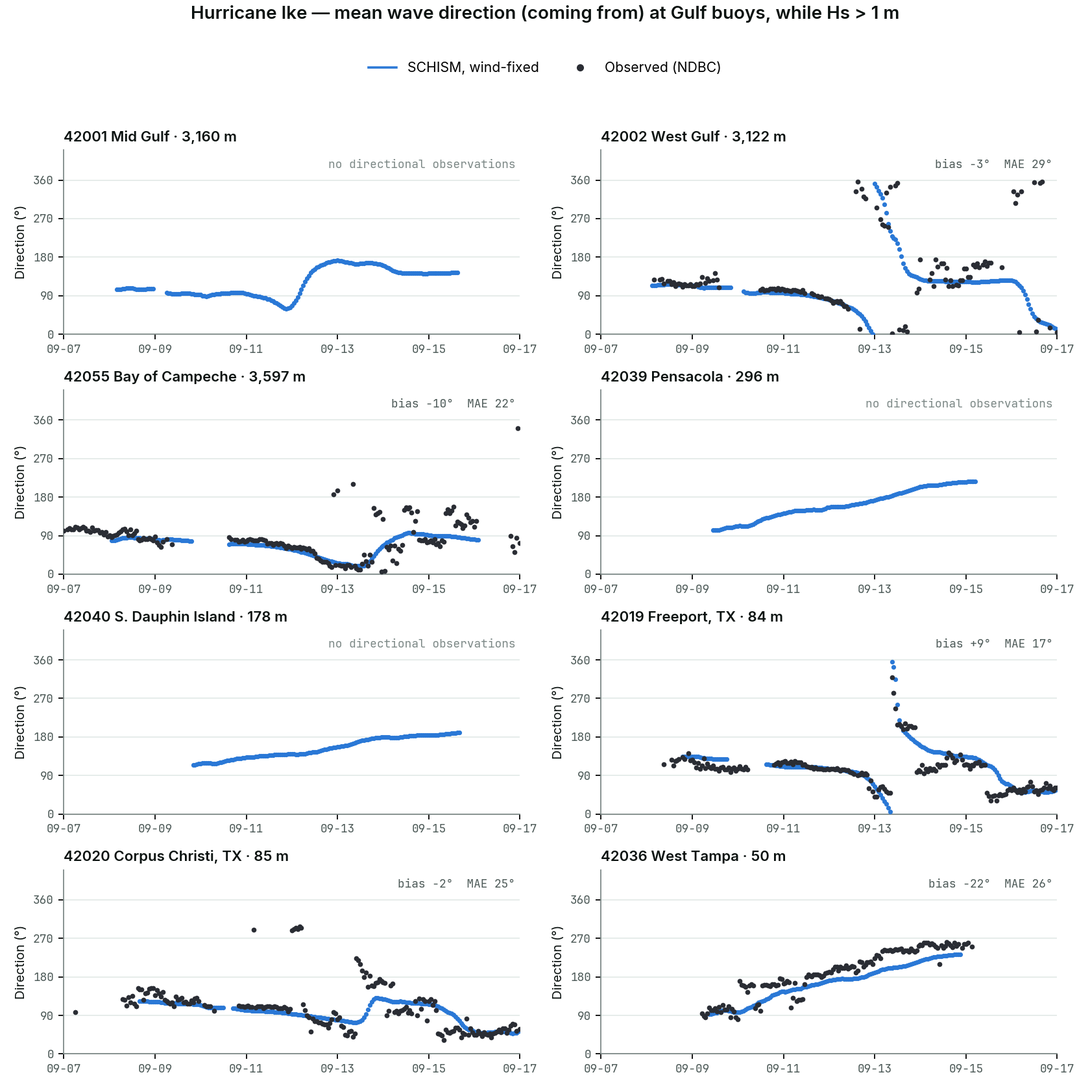
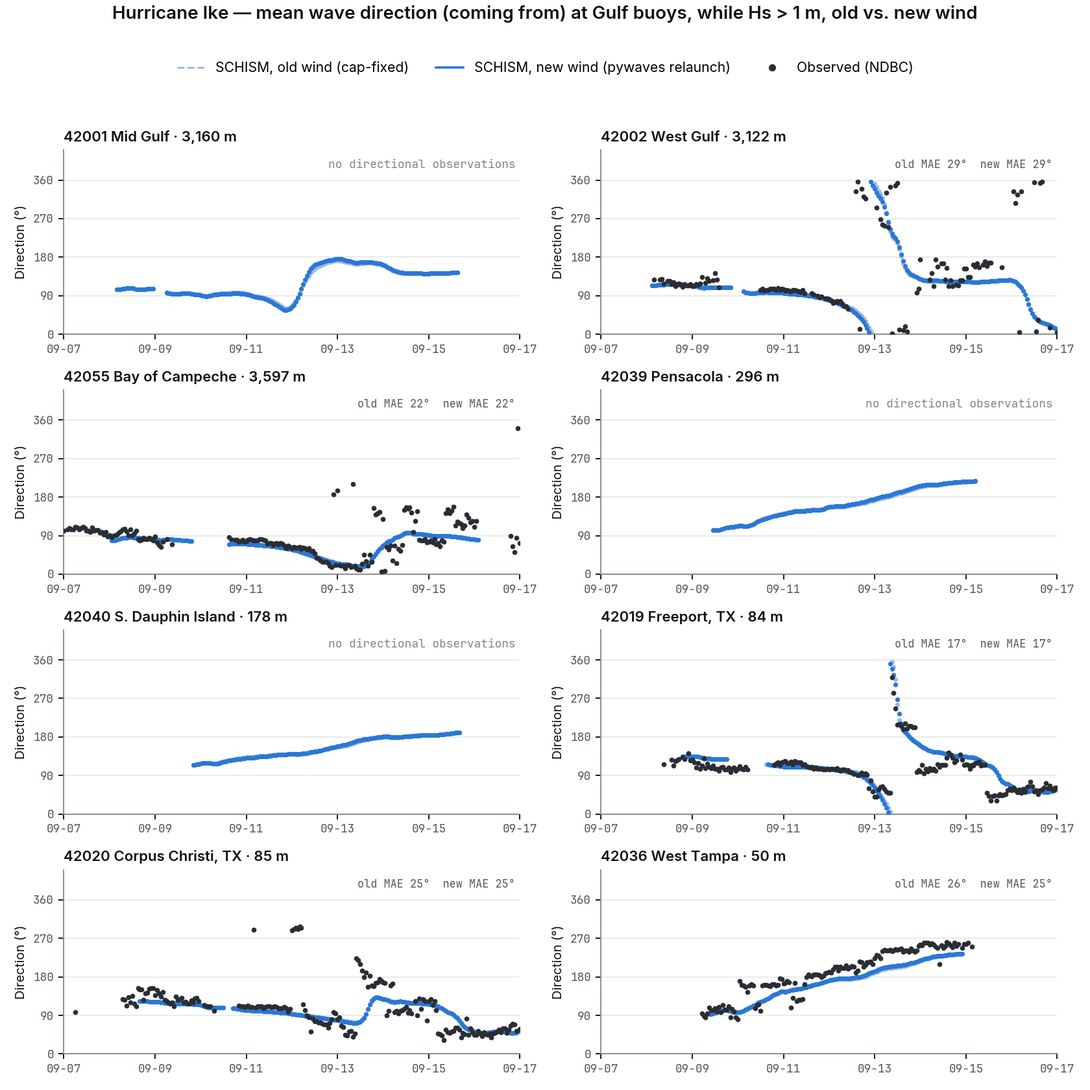
Ike: rerun Gulf-parent domain with new pywaves wind too
The local relaunch's wind never reached the Gulf-buoy figures, which
still showed the old cap-fixed wind (52 m/s at 42001 vs 30.1 m/s
observed) -- flagged by a live-site question about why 42001 still
looked unfixed. Reran the 10-day Gulf-of-Mexico parent domain with the
same pywaves wind and rescored all 8 buoys.

42001 wind: peak 52->35 m/s (obs 30.1), RMSE 4.1->2.2. Every other
buoy's wind is essentially unchanged, since the refit only bites near
the storm core. Deep-water wave height improved only partly (42001 Hs
40% high -> 30% high; 42002 unchanged) -- fixing the wind at a single
buoy doesn't cleanly fix fetch-integrated wave growth, echoing the
local-domain surge finding from the previous commit. Wind direction,
Tp and mean wave direction are essentially unchanged everywhere.
Current at 42002 is unaffected (identical to 3 decimal places).

Rewrote the Deep-water Gulf section (intro, Fig 2-5 captions/tables,
analysis paragraphs) and the closing summary to match, and removed the
now-ambiguous "wind-fixed" labeling in favor of "old cap-fixed" vs
"new pywaves" throughout.

Claude-Session: https://claude.ai/code/session_019HhJ14FLY5shXvj8i5ta22

diff --git a/site/content/portfolio/independent-projects/hurricane-ike-schism-wwm-nested-validation.md b/site/content/portfolio/independent-projects/hurricane-ike-schism-wwm-nested-validation.md
@@ -3,8 +3,8 @@ title: "Coupled Wave-Surge Model Validation: Hurricane Ike (SCHISM-WWM)"
 date: 2026-01-01
 description: "A nested Gulf-of-Mexico-to-Galveston SCHISM-WWM hindcast of Hurricane Ike (2008): wave, wind, current, and datum-corrected storm-surge validation at Gulf buoys and Galveston gauges, a wind-forcing bug whose fix repaired the storm's structure but not its intensity, and an offshore-boundary fix that recovered lost wave energy."
 challenge: "Ike was a much larger, more intense storm than Harvey, and reusing wind-forcing and boundary settings tuned for Harvey without re-checking them against a storm of a very different character risked quietly wrong results rather than an obvious crash."
-approach: "Ran the same nested-domain strategy used for Harvey — a Gulf-of-Mexico regional SCHISM-WWM hindcast feeding a high-resolution local Galveston domain — against Hurricane Ike, and checked every stage against eight Gulf NDBC buoys, NDBC buoy 42035 and the local CO-OPS water-level network. Later relaunched the local domain with an improved wind blend and rescored it against the same observations. ADCIRC-SWAN is not included here: that companion run has not yet completed successfully for Ike."
-result: "Found a real wind-forcing bug (a safety cap tuned for Harvey applied to a very different storm), then, separately, integrated a better GAHM+ERA5 wind blend shared with this project's SWAN/WW3 workflows and relaunched the local Galveston domain with it. The new local wind cuts peak-wind RMSE at buoy 42035 by about 40% (53 → 34 m/s vs. 27.9 m/s observed). Local wave height still correlates well with observations (r=0.89), but storm surge got *worse*, not better: with the old, overly strong wind the model reached 88% of the recorded peak at Galveston Pier 21; with the corrected, weaker wind it reaches 66%, and every one of five gauges moved further from its observed peak. The old wind's overestimate had been silently compensating for a separate surge shortfall — fixing one bug exposed another. Across eight Gulf buoys (a separate, not-yet-relaunched parent run) the wave field is well captured in timing and shape (correlation 0.93–0.99 at seven), wind and peak-period correlation are mostly 0.85–0.98, and the 2D barotropic model cannot reproduce the observed deep-water current at 42002. Tidal current at the Bay Entrance is still only about half of NOAA's predicted speed — the same shortfall found for Harvey, on a different mesh."
+approach: "Ran the same nested-domain strategy used for Harvey — a Gulf-of-Mexico regional SCHISM-WWM hindcast feeding a high-resolution local Galveston domain — against Hurricane Ike, and checked every stage against eight Gulf NDBC buoys, NDBC buoy 42035 and the local CO-OPS water-level network. Later relaunched both the local domain and, separately, the Gulf-of-Mexico parent domain with an improved wind blend and rescored each against the same observations. ADCIRC-SWAN is not included here: that companion run has not yet completed successfully for Ike."
+result: "Found a real wind-forcing bug (a safety cap tuned for Harvey applied to a very different storm), then, separately, integrated a better GAHM+ERA5 wind blend shared with this project's SWAN/WW3 workflows and relaunched first the local Galveston domain, then the Gulf-of-Mexico parent domain, with it. The new wind cuts peak-wind RMSE by about 40% at buoy 42035 (53 → 34 m/s vs. 27.9 m/s observed) and by about the same at the nearest Gulf buoy, 42001 (peak 52 → 35 m/s vs. 30 m/s observed); every other Gulf buoy is essentially unchanged, since the refit only bites near the storm core. Local wave height still correlates well with observations (r=0.89), but storm surge got *worse*, not better: with the old, overly strong wind the model reached 88% of the recorded peak at Galveston Pier 21; with the corrected, weaker wind it reaches 66%, and every one of five gauges moved further from its observed peak. The old wind's overestimate had been silently compensating for a separate surge shortfall — fixing one bug exposed another. In deep water the better wind helped only partly: Hs at 42001 fell from 40% too high to 30% too high despite the local wind's peak dropping by a third, and 42002's waves, whose local wind barely changed, stayed just as high. The 2D barotropic model cannot reproduce the observed deep-water current at 42002 either way. Tidal current at the Galveston Bay Entrance is still only about half of NOAA's predicted speed — the same shortfall found for Harvey, on a different mesh."
 tags: ["SCHISM", "WWM", "storm surge", "wave modeling", "current validation", "Hurricane Ike", "deep-water wave validation", "wind validation", "nested modeling", "GAHM wind forcing"]
 link: ""
 image: "/img/portfolio/hurricane-ike-schism-wwm/ike_mesh_nested.png"
@@ -22,38 +22,38 @@ The Gulf-of-Mexico run surfaced a real wind-forcing bug: the GAHM vortex model's
 
 The fix makes the cap intensity-aware: when HURDAT2 reports both r50 and r64 wind radii for a quadrant (real evidence of organized hurricane-force structure, which Harvey's stall phase never had), the cap follows an r64-anchored profile fit instead of a flat multiplier — never tighter than the original cap, so Harvey's case is unaffected. Rerunning the Gulf-of-Mexico domain with the fix reproduces the wind lull as Ike's eye passed almost directly over the buoy — confirmed independently by the buoy's own barometric pressure nearly matching HURDAT2's official central pressure at that time — and puts the second wind maximum at the right hour (09:00 UTC against 08:50 observed). It does not fix the intensity. Checked against the forcing files themselves, the modeled peak at 42035 is still about 53 m/s against 27.9 m/s observed, and winds on either side of the lull remain roughly twice the observed values; the same overestimate appears at buoy 42001 (about 52 m/s against 30 m/s), and it is the likely reason the deep-water waves there come out too high, below. So the fix repaired the *structure* of the wind field, not its strength.
 
-**Update: the local domain has since been relaunched with a better wind altogether.** Separately from the cap fix above, this project's wind generation was rebuilt around the same GAHM+ERA5 blend used by the SWAN and WW3 workflows (`pywaves.common.gahm`), which fits both the Holland profile's radius and shape parameter per quadrant and caps peak wind at 1.05x the storm's reported intensity rather than 1.25x. At buoy 42035, this cuts the local wind's peak from about 53 m/s (the cap-fixed wind above) to about 34 m/s against 27.9 m/s observed, and its RMSE from 5.2 to 3.2 m/s. The local Galveston domain was relaunched with this wind, and the wave, current, and storm-surge sections below reflect that relaunched run. One thing did *not* change: the run's incoming wave-boundary spectra, generated from the Gulf-of-Mexico parent run's own wave output, still reflect the *original*, pre-cap-fix wind — regenerating them would mean rerunning the 10-day Gulf-of-Mexico domain, which hasn't been done. So the local wind is now good, but part of what crosses the open boundary as waves is still built on the oldest, least accurate wind of the three.
+**Update: the local domain has since been relaunched with a better wind altogether.** Separately from the cap fix above, this project's wind generation was rebuilt around the same GAHM+ERA5 blend used by the SWAN and WW3 workflows (`pywaves.common.gahm`), which fits both the Holland profile's radius and shape parameter per quadrant and caps peak wind at 1.05x the storm's reported intensity rather than 1.25x. At buoy 42035, this cuts the local wind's peak from about 53 m/s (the cap-fixed wind above) to about 34 m/s against 27.9 m/s observed, and its RMSE from 5.2 to 3.2 m/s. The local Galveston domain was relaunched with this wind, and the wave, current, and storm-surge sections below reflect that relaunched run. One thing did *not* change at first: the run's incoming wave-boundary spectra, generated from the Gulf-of-Mexico parent run's own wave output, still reflected the *original*, pre-cap-fix wind. The Gulf-of-Mexico domain has since been rerun with the same new wind too (below) — but the local run's boundary spectra haven't yet been regenerated from that rerun and the local domain hasn't been relaunched a second time, so the local wave, current, and storm-surge numbers below still carry wave energy built on the oldest, least accurate wind of the three at their open boundary. That's a concrete, now-unblocked next step, not yet done.
 
 ## Deep-water wave validation across the Gulf
 
-The Gulf-of-Mexico parent run — the domain that feeds the local Galveston mesh — can be checked against NDBC buoys from the open ocean to the shelf. Nine of the ten buoys in the model's station list have 2008 records (42012 doesn't); 42035 is only 15 m deep and is covered by the local-domain validation below. That leaves eight: three in deep water (3,100–3,600 m), two on the continental slope (180–300 m) and three on the shelf (50–85 m). Two versions of the Gulf run are shown, one with the original wind field and one with the wind fix described above. The configuration is otherwise the same, apart from a regenerated wave-boundary file. (This section predates the pywaves wind relaunch described above; the Gulf-of-Mexico parent run itself hasn't been rerun with the newer wind, only the local Galveston domain has — see the local wave, current and storm-surge sections below.)
+The Gulf-of-Mexico parent run — the domain that feeds the local Galveston mesh — can be checked against NDBC buoys from the open ocean to the shelf. Nine of the ten buoys in the model's station list have 2008 records (42012 doesn't); 42035 is only 15 m deep and is covered by the local-domain validation below. That leaves eight: three in deep water (3,100–3,600 m), two on the continental slope (180–300 m) and three on the shelf (50–85 m). This section originally compared the original wind against the intermediate, cap-only fix; the Gulf-of-Mexico parent domain has since been rerun with the same pywaves wind used for the local relaunch above, so the figures and table below instead compare that old cap-fixed wind against the new pywaves wind, on the same Gulf mesh and the same ERA5 wave-boundary spectra throughout.
 
-![Significant wave height at eight Gulf of Mexico buoys through Hurricane Ike, ordered from deep water to shelf: observed vs SCHISM-WWM with the original and the wind-fixed wind field](/img/portfolio/hurricane-ike-schism-wwm/ike_gulf_hs_buoys.png)
-*Fig. 2 — Significant wave height at eight Gulf buoys, deepest first: observed (black), original-wind run (dashed), wind-fixed run (blue). The statistics in each panel are for the wind-fixed run over Sept 7–17.*
+![Significant wave height at eight Gulf of Mexico buoys through Hurricane Ike, ordered from deep water to shelf: observed vs SCHISM-WWM with the old cap-fixed and the new pywaves wind field](/img/portfolio/hurricane-ike-schism-wwm/ike_gulf_hs_buoys.png)
+*Fig. 2 — Significant wave height at eight Gulf buoys, deepest first: observed (black), old cap-fixed wind (dashed), new pywaves wind (blue). The statistics in each panel are for the new-wind run over Sept 7–17.*
 
-| Buoy | Depth | Correlation | Bias | RMSE (original-wind run) | Peak Hs, observed → model |
+| Buoy | Depth | Corr, old → new | Bias, old → new | RMSE, old → new | Peak Hs, obs → old → new |
 |---|---|---|---|---|---|
-| 42001 Mid Gulf | 3,160 m | 0.94 | +0.45 m | 1.28 m (1.10 m) | 9.2 → 12.9 m |
-| 42002 West Gulf | 3,122 m | 0.93 | +0.32 m | 0.97 m (0.77 m) | 6.0 → 8.8 m |
-| 42055 Bay of Campeche | 3,597 m | 0.73 | +0.17 m | 0.61 m (0.54 m) | 2.6 → 3.0 m |
-| 42039 Pensacola | 296 m | 0.99 | −0.23 m | 0.41 m (0.49 m) | 8.0 → 6.3 m |
-| 42040 S. Dauphin Island | 178 m | 0.99 | +0.01 m | 0.35 m (0.41 m) | 8.6 → 7.9 m |
-| 42019 Freeport, TX | 84 m | 0.96 | +0.24 m | 0.64 m (0.59 m) | 6.3 → 6.5 m |
-| 42020 Corpus Christi, TX | 85 m | 0.96 | +0.05 m | 0.59 m (0.49 m) | 6.9 → 7.0 m |
-| 42036 West Tampa | 50 m | 0.99 | −0.23 m | 0.31 m (0.33 m) | 4.5 → 4.0 m |
+| 42001 Mid Gulf | 3,160 m | 0.94 → 0.95 | +0.45 → +0.38 m | 1.28 → 1.05 m | 9.2 → 12.9 → 12.0 m |
+| 42002 West Gulf | 3,122 m | 0.93 → 0.93 | +0.32 → +0.28 m | 0.97 → 0.94 m | 6.0 → 8.8 → 8.8 m |
+| 42055 Bay of Campeche | 3,597 m | 0.73 → 0.72 | +0.17 → +0.17 m | 0.61 → 0.61 m | 2.6 → 3.0 → 2.9 m |
+| 42039 Pensacola | 296 m | 0.99 → 0.99 | −0.23 → −0.22 m | 0.41 → 0.42 m | 8.0 → 6.3 → 6.2 m |
+| 42040 S. Dauphin Island | 178 m | 0.99 → 0.99 | +0.01 → +0.01 m | 0.35 → 0.40 m | 8.6 → 7.9 → 7.9 m |
+| 42019 Freeport, TX | 84 m | 0.96 → 0.96 | +0.24 → +0.21 m | 0.64 → 0.60 m | 6.3 → 6.5 → 6.3 m |
+| 42020 Corpus Christi, TX | 85 m | 0.96 → 0.95 | +0.05 → −0.00 m | 0.59 → 0.54 m | 6.9 → 7.0 → 6.7 m |
+| 42036 West Tampa | 50 m | 0.99 → 0.99 | −0.23 → −0.21 m | 0.31 → 0.30 m | 4.5 → 4.0 → 4.0 m |
 
-The timing and shape of the storm's wave field are captured well: correlation is 0.93–0.99 at seven of the eight buoys. The exception, Bay of Campeche, is far from the storm, with waves under 3 m. On the slope and shelf the peaks are close — within about 5% at Freeport and Corpus Christi, 8–11% low at Dauphin Island and West Tampa, and 21% low at Pensacola — though the peaks at Dauphin Island and West Tampa arrive 6–7 hours late in the model.
+The timing and shape of the storm's wave field are captured well: correlation is 0.93–0.99 at six of the eight buoys, 0.95 at Corpus Christi, and 0.72 at Bay of Campeche, which is far from the storm with waves under 3 m. On the slope and shelf the peaks are close — within about 5% at Freeport and Corpus Christi, 8–9% low at Dauphin Island and West Tampa, and 22% low at Pensacola — though the peaks at Dauphin Island and West Tampa arrive 6–7 hours late in the model.
 
-**In deep water the model is too high.** Peak Hs is 12.9 m against 9.2 m observed at 42001 (about 40% high) and 8.8 m against 6.0 m at 42002 (about 47% high). The wind explains part of this. At 42001 the modeled peak wind is about 52 m/s against 30 m/s observed — the same core-region overestimate as at 42035 — while at six of the other seven buoys it is within about 13% of the observation (at Bay of Campeche it is low, 9.9 against 15.5 m/s). At 42002 the local wind is fine (20.8 vs. 22.3 m/s), so its excess wave height is probably swell generated closer to the storm core and carried there, though I haven't verified that. The 42001 record also shows a sharp drop right after the peak, consistent with the storm center passing close by, which the model smooths over.
+**In deep water the model is still too high, even with the better wind.** Peak Hs is 12.0 m against 9.2 m observed at 42001 (about 30% high, down from 40% with the old wind) and 8.8 m against 6.0 m at 42002 (about 47% high, unchanged). The 42001 result is honestly a modest gain: fixing that buoy's own wind cut its peak by about a third (52 → 35 m/s against 30 m/s observed), but the wave height it drove there fell only from 12.9 to 12.0 m. Deep-water wave growth integrates wind over a broad fetch and over time, not just the single point at the buoy, so a point-wind fix only partly reaches the wave field there — the same kind of gap between fixing an input and fixing the output that shows up again, more sharply, in the local storm-surge result below. At 42002 the local wind barely moved either way (its own RMSE rose slightly, 1.7 → 1.8 m/s), so its persistently high waves are still most likely swell carried in from nearer the storm core, as before, though I haven't verified that. The 42001 record also shows a sharp drop right after the peak, consistent with the storm center passing close by, which the model smooths over.
 
-**The wind fix did not help in deep water.** Comparing the two runs, the fix reduces RMSE at the three slope and shelf buoys where the wind was already reasonable (Pensacola 0.49 → 0.41 m, Dauphin Island 0.41 → 0.35 m, West Tampa 0.33 → 0.31 m), but slightly increases it at the deep buoys (42001 from 1.10 to 1.28 m, 42002 from 0.77 to 0.97 m) and at Freeport and Corpus Christi. That fits the picture above: the fix changed the wind field's structure, and the wind near the storm core is still too strong. These Gulf-scale errors are also what reaches the local Galveston domain through its open boundary.
+**Elsewhere, the new wind made little direct difference, and what moved was mostly indirect.** RMSE at the three slope/shelf buoys and at 42002 shifted by no more than about 0.05 m between the old and new wind. The one exception is a slight *worsening* at Dauphin Island (0.35 → 0.40 m) despite that buoy's own local wind being unchanged between the two runs — consistent with Tp and mean wave direction also shifting slightly at buoys with unchanged local wind, below: swell generated near the storm core, where the wind did change, propagates outward and reaches these buoys too. These Gulf-scale results are also what reaches the local Galveston domain through its open boundary, once that boundary is regenerated from this run (not yet done, see above).
 
 ### Wind speed and direction
 
-![Wind speed and direction at eight Gulf of Mexico buoys through Hurricane Ike: observed vs SCHISM 10-m wind with the original and the wind-fixed forcing](/img/portfolio/hurricane-ike-schism-wwm/ike_gulf_wind.png)
+![Wind speed and direction at eight Gulf of Mexico buoys through Hurricane Ike: observed vs SCHISM 10-m wind with the old cap-fixed and the new pywaves forcing](/img/portfolio/hurricane-ike-schism-wwm/ike_gulf_wind.png)
 *Fig. 3 — Wind speed (upper panel of each pair) and the direction the wind comes from (lower panel; only where the wind exceeds 3 m/s). Model values are the 10-m wind at the nearest mesh node, compared with the buoy anemometers (about 5 m above the sea; adjusting to 10 m would raise the observations by roughly 5–10%, which doesn't change the picture).*
 
-Away from the storm core the wind is captured closely: correlation is 0.91–0.98 at six of the eight buoys (0.78 at Bay of Campeche and 0.82 at Corpus Christi, where the wind is light and gusty), biases are within about ±0.7 m/s, and the wind direction is right to within about 8–15° on average (20° at Freeport, where the model runs about 16° too far clockwise). The wind-fixed and original forcings are nearly identical at every buoy except 42001, the one closest to the storm core. There the model produces two sharp spikes of about 50 m/s either side of a lull, where the buoy recorded a single broad maximum of about 30 m/s — a much stronger, narrower eyewall than was observed.
+Away from the storm core the two winds are nearly identical, and both are captured closely against the observations: correlation is 0.91–0.98 at six of the eight buoys (0.78 at Bay of Campeche and 0.82 at Corpus Christi, where the wind is light and gusty), biases are within about ±0.7 m/s, and the wind direction is right to within about 7–20° on average (worst at Freeport, where the model runs about 20° too far clockwise). That's expected: the pywaves refit only materially changes the profile within the fitted radius of maximum winds near the core. At 42001, the buoy closest to the core, it matters a great deal. The old cap-fixed wind produced two sharp spikes of about 52 m/s either side of a brief lull, where the buoy recorded a single broad maximum of about 30 m/s; the new wind cuts that peak to about 35 m/s and its RMSE from 4.1 to 2.2 m/s — real progress, though still about 15% high, and the lull is still too deep.
 
 ### Peak wave period and mean wave direction
 
@@ -61,28 +61,28 @@ Away from the storm core the wind is captured closely: correlation is 0.91–0.9
 *Fig. 4 — Peak wave period. The observed values are NDBC's dominant period, which is quantized by the buoy's spectral bins. The model starts from calm on Sept 7, so its first day is spin-up and is included in the statistics.*
 
 ![Mean wave direction at eight Gulf of Mexico buoys through Hurricane Ike: observed vs SCHISM-WWM, where the wave height exceeds 1 m](/img/portfolio/hurricane-ike-schism-wwm/ike_gulf_mwd.png)
-*Fig. 5 — Mean wave direction, as the direction the waves come from, shown while the wave height exceeds 1 m. Three of the eight buoys (42001, 42039, 42040) don't measure wave direction, so only the model is shown there. Statistics are for the wind-fixed run.*
+*Fig. 5 — Mean wave direction, as the direction the waves come from, shown while the wave height exceeds 1 m. Three of the eight buoys (42001, 42039, 42040) don't measure wave direction, so only the model is shown there. Statistics are for the new-wind run.*
 
-The model reproduces the abrupt arrival of long-period swell (about 14 s) ahead of the storm at most buoys, and the following decay. Correlation is 0.85–0.94, and the model runs about 0.3–0.7 s long at seven buoys (about 5%, which is the resolution of the wave model's frequency grid) and 0.3 s short at West Tampa. It overshoots the peak period by 1–3 s at the buoys nearest the core (42001, 42002, 42019, 42020) and stays high on the decay at Freeport and Corpus Christi, where the observed period drops as the sea becomes mixed.
+The model reproduces the abrupt arrival of long-period swell (about 14 s) ahead of the storm at most buoys, and the following decay. Correlation is 0.86–0.95, and the model runs about 0.3–0.5 s long at seven buoys (about 5%, which is the resolution of the wave model's frequency grid) and 0.2 s short at West Tampa. It overshoots the peak period by 1–3 s at the buoys nearest the core (42001, 42002, 42019, 42020) and stays high on the decay at Freeport and Corpus Christi, where the observed period drops as the sea becomes mixed. These numbers barely moved from the old-wind run, and moved by similar small amounts even at buoys whose own local wind is unchanged between the two runs — a further sign that the storm core's improved wind reaches these buoys indirectly, through swell, rather than only through the local wind.
 
-Wave direction is captured in both shape and sense: the model follows the rotation of the wave direction as the storm passes, with a mean error of 17–29° where it can be checked. I confirmed the model's direction convention against the observations rather than assuming it (the model matches as a "coming from" direction; flipping it by 180° makes the error about 150–160°). Two caveats: the buoy reports the direction of the dominant waves while the model gives the mean over the whole spectrum, so some systematic offset is expected, and the largest bias, −22° at West Tampa, is a consistent under-rotation late in the storm.
+Wave direction is captured in both shape and sense: the model follows the rotation of the wave direction as the storm passes, with a mean error of 17–29° where it can be checked. I confirmed the model's direction convention against the observations rather than assuming it (the model matches as a "coming from" direction; flipping it by 180° makes the error about 150–160°). Two caveats: the buoy reports the direction of the dominant waves while the model gives the mean over the whole spectrum, so some systematic offset is expected, and the largest bias, −21° at West Tampa, is a consistent under-rotation late in the storm.
 
 | Buoy | Wind speed: r | bias | peak, obs → model | Wind direction: mean error | Tp: r | bias | Mean wave direction: mean error (bias) |
 |---|---|---|---|---|---|---|---|
-| 42001 Mid Gulf | 0.91 | +0.7 m/s | 30 → 52 m/s | 8° | 0.92 | +0.4 s | no directional obs |
-| 42002 West Gulf | 0.93 | -0.3 m/s | 22 → 21 m/s | 11° | 0.90 | +0.5 s | 29° (-3°) |
-| 42055 Bay of Campeche | 0.78 | +0.1 m/s | 16 → 10 m/s | 15° | 0.87 | +0.5 s | 22° (-10°) |
-| 42039 Pensacola | 0.97 | +0.2 m/s | 16 → 16 m/s | 7° | 0.90 | +0.3 s | no directional obs |
-| 42040 S. Dauphin Island | 0.98 | +0.1 m/s | 17 → 18 m/s | 12° | 0.94 | +0.5 s | no directional obs |
-| 42019 Freeport, TX | 0.94 | +0.6 m/s | 22 → 24 m/s | 20° | 0.86 | +0.4 s | 17° (+9°) |
-| 42020 Corpus Christi, TX | 0.82 | +0.4 m/s | 14 → 12 m/s | 12° | 0.90 | +0.7 s | 25° (-2°) |
-| 42036 West Tampa | 0.98 | +0.1 m/s | 15 → 15 m/s | 8° | 0.85 | -0.3 s | 26° (-22°) |
+| 42001 Mid Gulf | 0.96 | +0.4 m/s | 30 → 35 m/s | 8° | 0.92 | +0.3 s | no directional obs |
+| 42002 West Gulf | 0.93 | -0.1 m/s | 22 → 23 m/s | 11° | 0.89 | +0.4 s | 29° (-4°) |
+| 42055 Bay of Campeche | 0.78 | +0.1 m/s | 16 → 10 m/s | 15° | 0.86 | +0.4 s | 22° (-10°) |
+| 42039 Pensacola | 0.97 | +0.2 m/s | 16 → 16 m/s | 7° | 0.91 | +0.3 s | no directional obs |
+| 42040 S. Dauphin Island | 0.98 | +0.1 m/s | 17 → 18 m/s | 12° | 0.95 | +0.5 s | no directional obs |
+| 42019 Freeport, TX | 0.94 | +0.7 m/s | 22 → 24 m/s | 20° | 0.86 | +0.3 s | 17° (+9°) |
+| 42020 Corpus Christi, TX | 0.82 | +0.4 m/s | 14 → 12 m/s | 12° | 0.90 | +0.5 s | 25° (-2°) |
+| 42036 West Tampa | 0.98 | +0.1 m/s | 15 → 15 m/s | 8° | 0.86 | -0.2 s | 25° (-21°) |
 
-Statistics are for the wind-fixed run over Sept 7–17; wind direction is scored only while the observed wind exceeds 5 m/s, and wave direction only while the observed wave height exceeds 1 m.
+Statistics are for the relaunched Gulf run (new pywaves wind) over Sept 7–17; wind direction is scored only while the observed wind exceeds 5 m/s, and wave direction only while the observed wave height exceeds 1 m. Away from 42001's own wind speed, all three of these tables are within a few percent, or a few tenths of a degree or second, of the pre-relaunch run — the wind refit changes little outside the storm core, and even the core change reaches Tp and direction only faintly.
 
 ### Current
 
-Only one of the eight buoys, 42002 (West Gulf), had a current meter in 2008; NDBC's current-profiler archive has no 2008 record for the other seven. So this is a single comparison, and the result is a limitation of the model configuration, not a tuning problem.
+Only one of the eight buoys, 42002 (West Gulf), had a current meter in 2008; NDBC's current-profiler archive has no 2008 record for the other seven. So this is a single comparison, and the result is a limitation of the model configuration, not a tuning problem. It's also unaffected by the wind relaunch below: 42002's own local wind barely changed between the old and new runs, and its modeled current is identical to three decimal places (mean 0.074 → 0.075 m/s, max 0.249 m/s either way).
 
 ![Current speed and direction at NDBC buoy 42002 through Hurricane Ike: observed current meter at 41 m and mean of the upper 200 m vs the 2D depth-averaged SCHISM current](/img/portfolio/hurricane-ike-schism-wwm/ike_gulf_current_42002.png)
 *Fig. 6 — Current at 42002 (3,122 m deep). The observations are from the current meter's 41-m bin and the mean of its bins down to 200 m; direction is the direction the current flows toward, as NDBC defines it. The model is the depth-averaged velocity of the 2D run.*
@@ -156,6 +156,6 @@ Diagnosing this also surfaced a separate, genuine finding, not a bug: raw retent
 
 ## Where this leaves the project
 
-The Gulf-scale wind-forcing fix repaired the *structure* of the wind field (the eye lull and the timing of the second maximum) but not its strength near the core, which still shows up as too-high waves at the deep buoys there — that comparison hasn't been rerun since. On the local domain, a further, independent wind improvement (the pywaves GAHM+ERA5 blend, shared with this project's SWAN and WW3 workflows) cut peak-wind error at buoy 42035 by about 40%, and the local domain has now been relaunched with it. That relaunch produced this write-up's most important finding: fixing the wind made the local storm surge *worse* at every gauge, because the old wind's overestimate had been silently compensating for a separate surge deficit. What the relaunched run reaches is still substantial — two-thirds of the observed peak at Pier 21 — but the search for that separate deficit (candidates: the smoothing settings noted below, the still-stale wave-boundary spectra, or a genuine gap in the surge physics) is now the real open problem, ahead of correcting the Gulf-scale wind intensity or regenerating the boundary spectra from a rerun Gulf parent domain. Getting ADCIRC-SWAN's Ike setup past its current instability, so a full two-model comparison like the one already done for Harvey becomes possible for this storm too, also remains open. Two problems shared with the Harvey local run also remain open: tidal currents at the Bay Entrance are about half of the predicted speed, and the bay-head gauges at Morgans Point and Rollover Pass barely respond. In deep water, the 2D barotropic run cannot reproduce the observed ambient current at all (checked at 42002), so any deep-water current validation would need a 3D baroclinic run with ocean boundary data.
+The Gulf-scale wind-forcing fix repaired the *structure* of the wind field (the eye lull and the timing of the second maximum) but not its strength near the core. The pywaves GAHM+ERA5 blend, shared with this project's SWAN and WW3 workflows, fixed the strength too: relaunched first on the local domain (cutting peak-wind error at buoy 42035 by about 40%) and then on the Gulf-of-Mexico parent domain (the same cut at buoy 42001), it's now been carried through both. In deep water the payoff was only partial — Hs at 42001 improved from 40% too high to 30%, not to zero, and 42002's waves didn't improve at all, since their own local wind was already fine. On the local domain, the relaunch produced this write-up's most important finding: fixing the wind made the local storm surge *worse* at every gauge, because the old wind's overestimate had been silently compensating for a separate surge deficit. What the relaunched run reaches is still substantial — two-thirds of the observed peak at Pier 21 — but the search for that separate deficit (candidates: the smoothing settings noted below, the still-stale local wave-boundary spectra, or a genuine gap in the surge physics) is now the real open problem. The most direct next step is now unblocked: regenerating the local run's wave-boundary spectra from this relaunched Gulf-of-Mexico run's own output (they currently still come from the original, pre-cap-fix Gulf run) and relaunching the local domain a second time — not yet done. Getting ADCIRC-SWAN's Ike setup past its current instability, so a full two-model comparison like the one already done for Harvey becomes possible for this storm too, also remains open. Two problems shared with the Harvey local run also remain open: tidal currents at the Bay Entrance are about half of the predicted speed, and the bay-head gauges at Morgans Point and Rollover Pass barely respond. In deep water, the 2D barotropic run cannot reproduce the observed ambient current at all (checked at 42002, unaffected by either wind version), so any deep-water current validation would need a 3D baroclinic run with ocean boundary data.
 
 *Model: [SCHISM](https://www.schism-dev.org/)+[WWM](https://wwm-model.org/). Forcing: GAHM-parametric wind field from HURDAT2 best-track data. Validation: NOAA CO-OPS water-level stations and NDBC buoys.*
